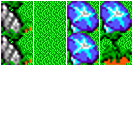
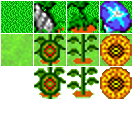
Change to use square tiles

diff --git a/dungeon.c b/dungeon.c
@@ -77,7 +77,7 @@ void init_dungeon(void)
     exit(1);
   }
 
-  tile_map = new_map(TILE_WIDTH, TILE_HEIGHT, 4, MAP_W, MAP_H);
+  tile_map = new_map(TILE_WIDTH, TILE_HEIGHT, NUM_TILES, MAP_W, MAP_H);
   if (tile_map == NULL) {
     exit(1);
   }
@@ -648,7 +648,6 @@ void print_tile(coord x, coord y)
 void print_tile_at_position(coord x, coord y)
 {
   byte tile;
-  byte subtile;
 
   if (x <  0 || y < 0 || x > MAP_W || y > MAP_H || !is_known(x, y))
   {
@@ -677,14 +676,14 @@ void print_tile_at_position(coord x, coord y)
     }
     else if (tile == ROCK)
     {
-      subtile = (y+1 < MAP_H) ? map[x][y+1] : tile;
-      if (subtile == ROCK)
+      if (y+1 >= 0 && y+1 < MAP_H && map[x][y+1] != ROCK)
       {
-        puttile_map(tile_map, x, y, TILE_ROCK);
+        puttile_map(tile_map, x, y-1, TILE_ROCK);
+        puttile_map(tile_map, x, y, TILE_WALL);
       }
       else
       {
-        puttile_map(tile_map, x, y, TILE_WALL);
+        puttile_map(tile_map, x, y, TILE_ROCK);
       }
     }
   }

diff --git a/dungeon.h b/dungeon.h
@@ -60,12 +60,13 @@ enum direction
  */
 
 #define TILE_WIDTH   32
-#define TILE_HEIGHT  64
+#define TILE_HEIGHT  32
 
-#define TILE_UNKNOWN 0
-#define TILE_FLOOR   1
-#define TILE_ROCK    2
-#define TILE_WALL    3
+#define TILE_UNKNOWN 1
+#define TILE_FLOOR   0
+#define TILE_ROCK    3
+#define TILE_WALL    2
+#define NUM_TILES    4
 
 /*
  * Global variables.
